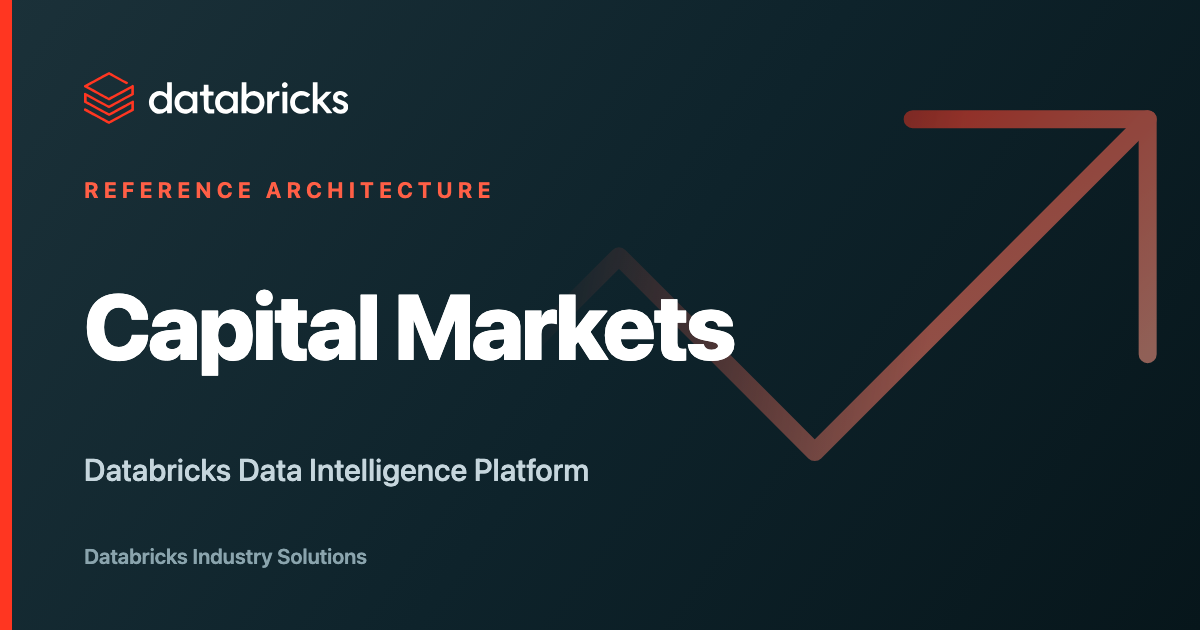
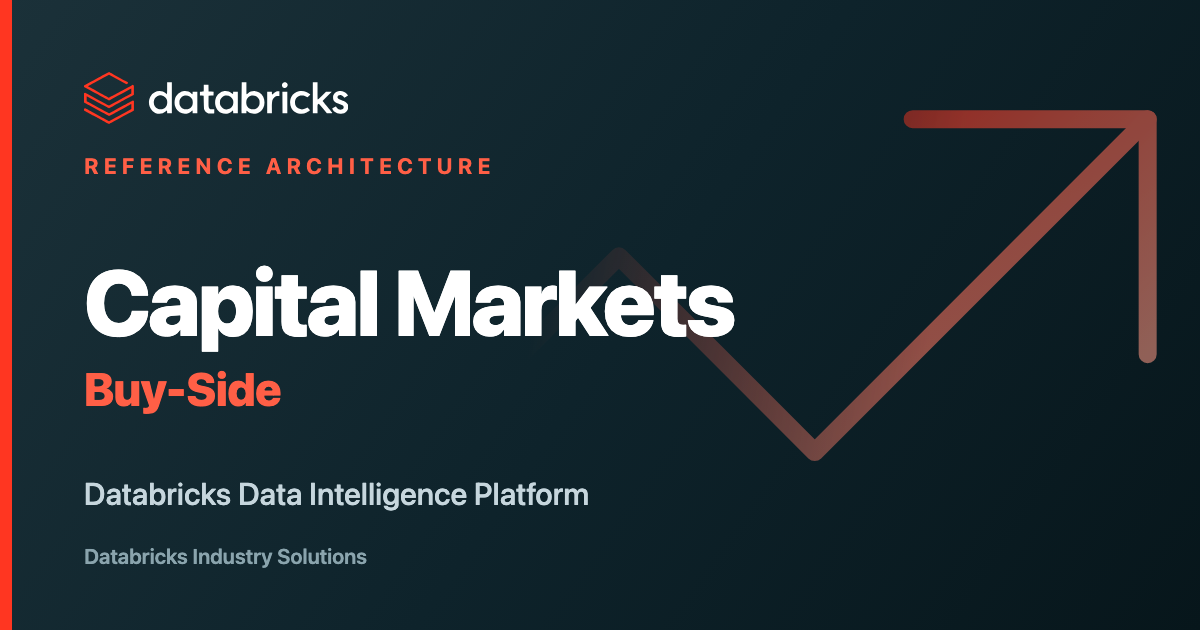
fix(share): unique OG cards for parenthetical sub-industries
gen_og_image.js dropped the parenthetical from each label, so the three
Oil & Gas boards and the two Capital Markets boards collapsed to a single
generic 'Oil & Gas' / 'Capital Markets' render (byte-identical PNGs). Keep
the full label and render the qualifier as its own accent line, so every
board now has a distinct share image (0 duplicates across the 70).

Changed region(s): [[0.0617, 0.4222, 0.6167, 0.6635], [0.0617, 0.7238, 0.4933, 0.8143], [0.0617, 0.2413, 0.4317, 0.3317]]

diff --git a/tools/gen_og_image.js b/tools/gen_og_image.js
@@ -35,9 +35,18 @@ function loadLabels(){
   const block = (html.match(/const INDUSTRY_CATALOG = \[([\s\S]*?)\];/) || [])[1] || '';
   const map = {};
   for (const m of block.matchAll(/\["([a-z0-9_]+)"\s*,\s*"([^"]+)"\]/g)){
-    map[m[1]] = m[2].replace(/\s*\([^)]*\)\s*/g, ' ').trim();
+    map[m[1]] = m[2].trim();
   }
   return map;
+}
+
+// Split "Oil & Gas (Midstream)" into a short base title and its qualifier so the
+// qualifier can render as its own accent line. Without this, same-base variants
+// (the three Oil & Gas boards, the two Capital Markets boards) collapse to
+// identical cards once the parenthetical is dropped.
+function splitLabel(label){
+  const m = label.match(/^(.*?)\s*\(([^)]+)\)\s*$/);
+  return m ? { base: m[1].trim(), qual: m[2].trim() } : { base: label, qual: '' };
 }
 
 // Auto-shrink the title so a long single word (e.g. Telecommunications) never
@@ -63,6 +72,8 @@ function head(fs_){ return `<meta charset="utf-8"><style>
   .mid{flex:1;display:flex;flex-direction:column;justify-content:center}
   .kick{margin:0;font-size:22px;font-weight:700;letter-spacing:.24em;text-transform:uppercase;color:#FF5F46}
   h1{margin:76px 0 76px;font-size:${fs_}px;line-height:1.02;font-weight:850;letter-spacing:-.025em;color:#fff;max-width:720px}
+  h1.has-qual{margin-bottom:16px}
+  .qual{margin:0 0 60px;font-size:46px;font-weight:800;line-height:1.05;letter-spacing:-.01em;color:#FF5F46;max-width:720px}
   p.sub{margin:0;font-size:31px;line-height:1.36;color:#C6D6DD;max-width:640px;font-weight:500}
   .foot{margin:0;font-size:21px;font-weight:600;color:#8AA4AD}
 </style>`; }
@@ -73,14 +84,16 @@ function watermark(glyph){
 }
 
 function card(label, glyph){
-  return `<!DOCTYPE html><html><head>${head(fontFor(label))}</head><body>
+  const { base, qual } = splitLabel(label);
+  return `<!DOCTYPE html><html><head>${head(fontFor(base))}</head><body>
   <div class="accent"></div>
   ${watermark(glyph)}
   <div class="wrap">
     <div class="brand">${LOGO}</div>
     <div class="mid">
       <div class="kick">Reference Architecture</div>
-      <h1>${esc(label)}</h1>
+      <h1${qual ? ' class="has-qual"' : ''}>${esc(base)}</h1>
+      ${qual ? `<div class="qual">${esc(qual)}</div>` : ''}
       <p class="sub">${SUB}</p>
     </div>
     <div class="foot">${CREDIT}</div>
